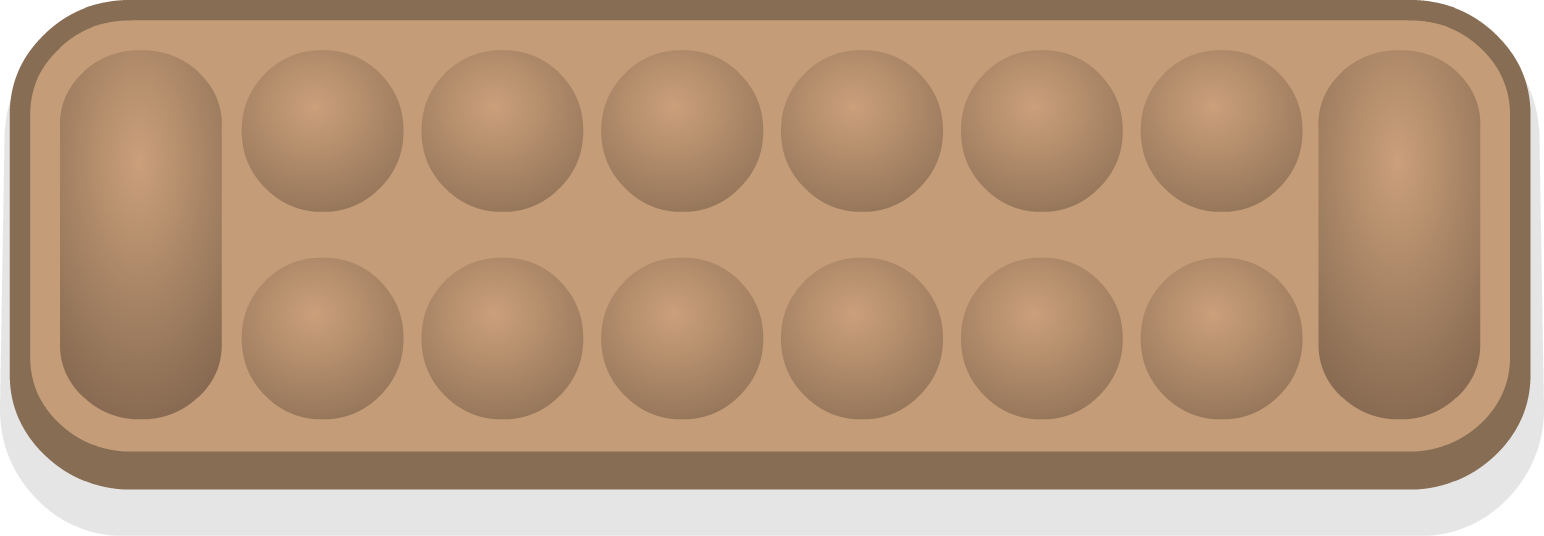
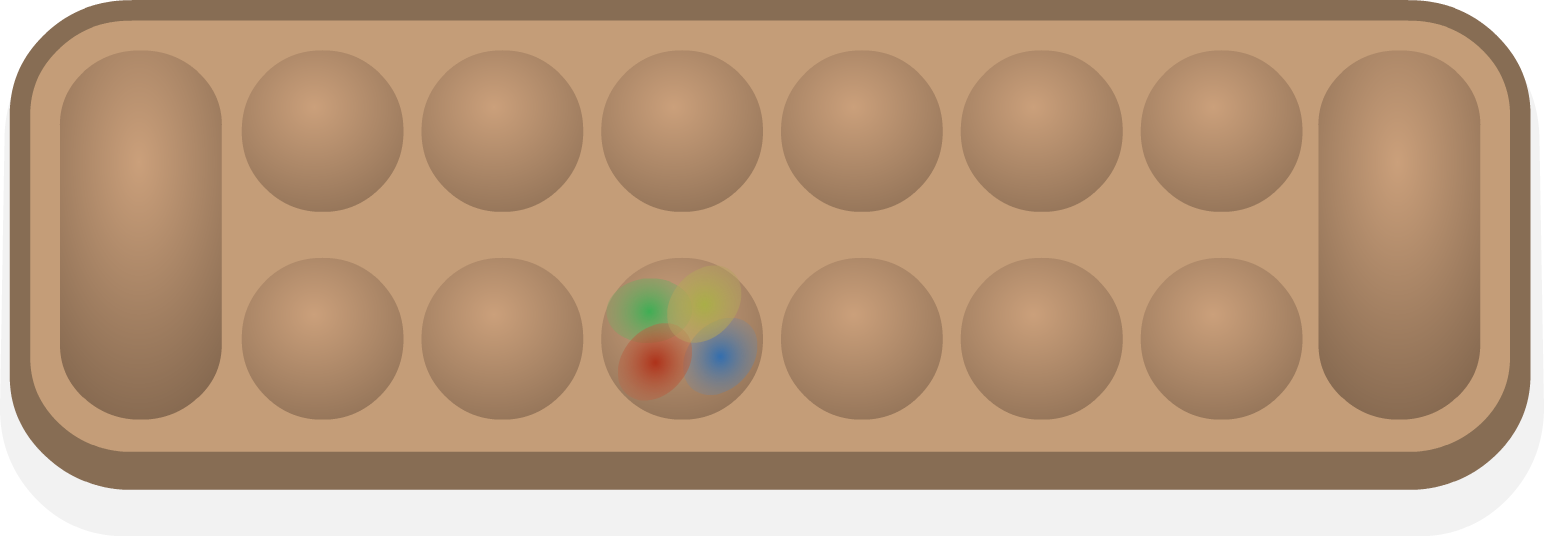
Added yellow highlight around slots when hovered over.

Changed region(s): [[0.3731, 0.5075, 0.4974, 0.7463]]

diff --git a/src/com/csmancala/core/RenderGraphics.java b/src/com/csmancala/core/RenderGraphics.java
@@ -9,6 +9,7 @@ import java.awt.Transparency;
 import java.awt.image.BufferedImage;
 
 import javax.swing.ImageIcon;
+import javax.swing.JButton;
 import javax.swing.JLabel;
 import javax.swing.JPanel;
 
@@ -56,51 +57,129 @@ public class RenderGraphics {
 	
 	private static void updateButtons() {
 		
+		gamePanel.player1Name.setLocation(startX, startY - 70);
+		
+		Slot[][] board = Start.getMancala().getBoard().getSlotArray();
+		
+		for (int y = 0; y < board[0].length; y++) {
+			for (int x = 0; x < board.length; x++) {
+				if (!(x == 0 && y == 1) && !(x == 7 && y == 0)) {
+					if (board[x][y].isHovered) setButtonProperties(gamePanel.boardButtons[x][y], true);
+					else setButtonProperties(gamePanel.boardButtons[x][y], false);
+				}
+			}
+		}
+		
+//		gamePanel.boardButtons[0][0].setLocation((int)(startX + 60 * multiplier), (int)(startY + 50 * multiplier));
+//		gamePanel.boardButtons[1][0].setLocation((int)(startX + 242 * multiplier), (int)(startY + 50 * multiplier));
+//		gamePanel.boardButtons[2][0].setLocation((int)(startX + 422 * multiplier), (int)(startY + 50 * multiplier));
+//		gamePanel.boardButtons[3][0].setLocation((int)(startX + 602 * multiplier), (int)(startY + 50 * multiplier));
+//		gamePanel.boardButtons[4][0].setLocation((int)(startX + 782 * multiplier), (int)(startY + 50 * multiplier));
+//		gamePanel.boardButtons[5][0].setLocation((int)(startX + 962 * multiplier), (int)(startY + 50 * multiplier));
+//		gamePanel.boardButtons[6][0].setLocation((int)(startX + 1142 * multiplier), (int)(startY + 50 * multiplier));
+//		
+//		gamePanel.boardButtons[7][1].setLocation((int)(startX + 1320 * multiplier), (int)(startY + 50 * multiplier));
+//		gamePanel.boardButtons[1][1].setLocation((int)(startX + 242 * multiplier), (int)(startY + 258 * multiplier));
+//		gamePanel.boardButtons[2][1].setLocation((int)(startX + 422 * multiplier), (int)(startY + 258 * multiplier));
+//		gamePanel.boardButtons[3][1].setLocation((int)(startX + 602 * multiplier), (int)(startY + 258 * multiplier));
+//		gamePanel.boardButtons[4][1].setLocation((int)(startX + 782 * multiplier), (int)(startY + 258 * multiplier));
+//		gamePanel.boardButtons[5][1].setLocation((int)(startX + 962 * multiplier), (int)(startY + 258 * multiplier));
+//		gamePanel.boardButtons[6][1].setLocation((int)(startX + 1142 * multiplier), (int)(startY + 258 * multiplier));
+		
+		
+//		gamePanel.boardButtons[0][0].setIcon(goalIcon);
+//		gamePanel.boardButtons[7][1].setIcon(goalIcon);
+//		
+//		for (int y = 0; y < 2; y++) {
+//			for (int x = 1; x < 7; x++) {
+//				gamePanel.boardButtons[x][y].setIcon(slotIcon);
+//			}
+//		}
+//		
+//		gamePanel.boardButtons[0][0].setSize(goalSize);
+//		gamePanel.boardButtons[7][1].setSize(goalSize);
+//		
+//		for (int y = 0; y < 2; y++) {
+//			for (int x = 1; x < 7; x++) {
+//				gamePanel.boardButtons[x][y].setSize(slotSize);
+//			}
+//		}
+	}
+	
+	private static void setButtonProperties(JButton b, boolean hovered) {
 		
 		BufferedImage goalImage = scaleImage(ResourceLoader.GOAL_BACKGROUND, (int) (ResourceLoader.GOAL_BACKGROUND.getWidth() * multiplier), (int) (ResourceLoader.GOAL_BACKGROUND.getHeight() * multiplier), RenderingHints.VALUE_INTERPOLATION_BILINEAR, true);
 		BufferedImage slotImage = scaleImage(ResourceLoader.SLOT_BACKGROUND, (int) (ResourceLoader.SLOT_BACKGROUND.getWidth() * multiplier), (int) (ResourceLoader.SLOT_BACKGROUND.getHeight() * multiplier), RenderingHints.VALUE_INTERPOLATION_BILINEAR, true);
 		
+		BufferedImage goalHoveredImage = scaleImage(ResourceLoader.GOAL_HIGHLIGHT_BACKGROUND, (int) (ResourceLoader.GOAL_HIGHLIGHT_BACKGROUND.getWidth() * multiplier), (int) (ResourceLoader.GOAL_HIGHLIGHT_BACKGROUND.getHeight() * multiplier), RenderingHints.VALUE_INTERPOLATION_BILINEAR, true);
+		BufferedImage slotHoveredImage = scaleImage(ResourceLoader.SLOT_HIGHLIGHT_BACKGROUND, (int) (ResourceLoader.SLOT_HIGHLIGHT_BACKGROUND.getWidth() * multiplier), (int) (ResourceLoader.SLOT_HIGHLIGHT_BACKGROUND.getHeight() * multiplier), RenderingHints.VALUE_INTERPOLATION_BILINEAR, true);
+
 		Dimension goalSize = new Dimension(goalImage.getWidth(), goalImage.getHeight());
 		Dimension slotSize = new Dimension(slotImage.getWidth(), slotImage.getHeight());
+		
+		Dimension goalHoveredSize = new Dimension(goalHoveredImage.getWidth(), goalHoveredImage.getHeight());
+		Dimension slotHoveredSize = new Dimension(slotHoveredImage.getWidth(), slotHoveredImage.getHeight());
 		
 		ImageIcon goalIcon = new ImageIcon(goalImage);
 		ImageIcon slotIcon = new ImageIcon(slotImage);
 		
-		gamePanel.player1Name.setLocation(startX, startY - 70);
+		ImageIcon goalHoveredIcon = new ImageIcon(goalHoveredImage);
+		ImageIcon slotHoveredIcon = new ImageIcon(slotHoveredImage);
 		
-		
-		gamePanel.boardButtons[0][0].setLocation((int)(startX + 60 * multiplier), (int)(startY + 50 * multiplier));
-		gamePanel.boardButtons[1][0].setLocation((int)(startX + 242 * multiplier), (int)(startY + 50* multiplier));
-		gamePanel.boardButtons[2][0].setLocation((int)(startX + 422 * multiplier), (int)(startY + 50 * multiplier));
-		gamePanel.boardButtons[3][0].setLocation((int)(startX + 602 * multiplier), (int)(startY + 50 * multiplier));
-		gamePanel.boardButtons[4][0].setLocation((int)(startX + 782 * multiplier), (int)(startY + 50 * multiplier));
-		gamePanel.boardButtons[5][0].setLocation((int)(startX + 962 * multiplier), (int)(startY + 50 * multiplier));
-		gamePanel.boardButtons[6][0].setLocation((int)(startX + 1142 * multiplier), (int)(startY + 50 * multiplier));
-		
-		gamePanel.boardButtons[7][1].setLocation((int)(startX + 1320 * multiplier), (int)(startY + 50 * multiplier));
-		gamePanel.boardButtons[1][1].setLocation((int)(startX + 242 * multiplier), (int)(startY + 258 * multiplier));
-		gamePanel.boardButtons[2][1].setLocation((int)(startX + 422 * multiplier), (int)(startY + 258 * multiplier));
-		gamePanel.boardButtons[3][1].setLocation((int)(startX + 602 * multiplier), (int)(startY + 258 * multiplier));
-		gamePanel.boardButtons[4][1].setLocation((int)(startX + 782 * multiplier), (int)(startY + 258 * multiplier));
-		gamePanel.boardButtons[5][1].setLocation((int)(startX + 962 * multiplier), (int)(startY + 258 * multiplier));
-		gamePanel.boardButtons[6][1].setLocation((int)(startX + 1142 * multiplier), (int)(startY + 258 * multiplier));
-		
-		
-		gamePanel.boardButtons[0][0].setIcon(goalIcon);
-		gamePanel.boardButtons[7][1].setIcon(goalIcon);
-		
-		for (int y = 0; y < 2; y++) {
-			for (int x = 1; x < 7; x++) {
-				gamePanel.boardButtons[x][y].setIcon(slotIcon);
+		if (b.equals(gamePanel.boardButtons[0][0])) {
+			if (hovered) {
+				gamePanel.boardButtons[0][0].setLocation((int)(startX + 60 - 7.5 * multiplier), (int)(startY + 50 - 7.5 * multiplier));
+				gamePanel.boardButtons[0][0].setIcon(goalHoveredIcon);
+				gamePanel.boardButtons[0][0].setSize(goalHoveredSize);
+			}
+			else {
+				gamePanel.boardButtons[0][0].setLocation((int)(startX + 60 * multiplier), (int)(startY + 50 * multiplier));
+				gamePanel.boardButtons[0][0].setIcon(goalIcon);
+				gamePanel.boardButtons[0][0].setSize(goalSize);
+			}
+		}
+		else if (b.equals(gamePanel.boardButtons[7][1])) {
+			if (hovered) {
+				gamePanel.boardButtons[7][1].setLocation((int)(startX + 1320 - 7.5 * multiplier), (int)(startY + 50 - 7.5 * multiplier));
+				gamePanel.boardButtons[7][1].setIcon(goalHoveredIcon);
+				gamePanel.boardButtons[7][1].setSize(goalHoveredSize);
+			}
+			else {
+				gamePanel.boardButtons[7][1].setLocation((int)(startX + 1320 * multiplier), (int)(startY + 50 * multiplier));
+				gamePanel.boardButtons[7][1].setIcon(goalIcon);
+				gamePanel.boardButtons[7][1].setSize(goalSize);
 			}
 		}
 		
-		gamePanel.boardButtons[0][0].setSize(goalSize);
-		gamePanel.boardButtons[7][1].setSize(goalSize);
-		
 		for (int y = 0; y < 2; y++) {
 			for (int x = 1; x < 7; x++) {
-				gamePanel.boardButtons[x][y].setSize(slotSize);
+				if (b.equals(gamePanel.boardButtons[x][y])) {
+					
+					if (y == 0) {
+						if (hovered) {
+							gamePanel.boardButtons[x][y].setLocation((int)(startX + (((x - 1) * 180) + 242 - 7.5) * multiplier), (int)(startY + ((50 - 7.5) * multiplier)));
+							gamePanel.boardButtons[x][y].setIcon(slotHoveredIcon);
+							gamePanel.boardButtons[x][y].setSize(slotHoveredSize);
+						}
+						else {
+							gamePanel.boardButtons[x][y].setLocation((int)(startX + (((x - 1) * 180) + 242) * multiplier), (int)(startY + (50 * multiplier)));
+							gamePanel.boardButtons[x][y].setIcon(slotIcon);
+							gamePanel.boardButtons[x][y].setSize(slotSize);
+						}
+					}
+					else {
+						if (hovered) {
+							gamePanel.boardButtons[x][y].setLocation((int)(startX + (((x - 1) * 180) + 242 - 7.5) * multiplier), (int)(startY + ((258 - 7.5) * multiplier)));
+							gamePanel.boardButtons[x][y].setIcon(slotHoveredIcon);
+							gamePanel.boardButtons[x][y].setSize(slotHoveredSize);
+						}
+						else {
+							gamePanel.boardButtons[x][y].setLocation((int)(startX + (((x - 1) * 180) + 242) * multiplier), (int)(startY + 258 * multiplier));
+							gamePanel.boardButtons[x][y].setIcon(slotIcon);
+							gamePanel.boardButtons[x][y].setSize(slotSize);
+						}
+					}
+				}
 			}
 		}
 	}
@@ -116,14 +195,6 @@ public class RenderGraphics {
 			nameLabel.setSize(new Dimension(fm.stringWidth(nameLabel.getText()), fm.getHeight()));
 		}
 	}
-	
-//	private static void paintMancalaBoardShadow(Graphics2D g2D) {
-//		
-//		startX = (int)(gamePanel.getWidth() - ResourceLoader.MANCALA_SHADOW.getWidth()) / 2;
-//		startY = (int)(gamePanel.getHeight() - ResourceLoader.MANCALA_BOARD.getHeight()) / 2;
-//
-//		g2D.drawImage(ResourceLoader.MANCALA_SHADOW, startX, startY, null);
-//	}
 	
 	public static void updateButtonText() {
 		

diff --git a/src/com/csmancala/component/GamePanel.java b/src/com/csmancala/component/GamePanel.java
@@ -12,11 +12,9 @@ import java.awt.event.ActionEvent;
 import java.awt.event.ActionListener;
 import java.awt.event.MouseAdapter;
 import java.awt.event.MouseEvent;
-
 import javax.swing.JButton;
 import javax.swing.JLabel;
 import javax.swing.JPanel;
-
 import com.csmancala.core.Board;
 import com.csmancala.core.RenderGraphics;
 import com.csmancala.run.Start;
@@ -29,23 +27,6 @@ public class GamePanel extends JPanel implements ActionListener {
 	public JLabel player2Name = new JLabel();
 	
 	public JButton[][] boardButtons;
-	
-//	public JButton player1Goal;
-//	public JButton player2Goal;
-//	
-//	public JButton topSlot1;
-//	public JButton topSlot2;
-//	public JButton topSlot3;
-//	public JButton topSlot4;
-//	public JButton topSlot5;
-//	public JButton topSlot6;
-//
-//	public JButton bottomSlot1;
-//	public JButton bottomSlot2;
-//	public JButton bottomSlot3;
-//	public JButton bottomSlot4;
-//	public JButton bottomSlot5;
-//	public JButton bottomSlot6;
 
 	public GamePanel() {
 		super();
@@ -84,24 +65,36 @@ public class GamePanel extends JPanel implements ActionListener {
 	@Override
 	public Component add(final Component c) {
 		if (c instanceof JButton && c != boardButtons[0][0] && c != boardButtons[7][1]) {
-			((JButton) c).addActionListener(this);
-
-			((JButton) c).addMouseListener(new MouseAdapter() {
+			final JButton b = (JButton)c;
+			b.addActionListener(this);
+			b.addMouseListener(new MouseAdapter() {
 
 				@Override
 				public void mouseEntered(MouseEvent e) {
-					c.setCursor(Cursor.getPredefinedCursor(Cursor.HAND_CURSOR));
+					b.setCursor(Cursor.getPredefinedCursor(Cursor.HAND_CURSOR));
 
-					//((JButton) c).setIcon(new ImageIcon(ResourceLoader.SLOT_HIGHLIGHT_BACKGROUND));
-					//c.setSize(ResourceLoader.SLOT_HIGHLIGHT_BACKGROUND.getWidth(), ResourceLoader.SLOT_HIGHLIGHT_BACKGROUND.getHeight());
+					for (int y = 0; y < Start.getMancala().getBoard().getSlotArray()[0].length; y++) {
+						for (int x = 0; x < Start.getMancala().getBoard().getSlotArray().length; x++) {
+							if (b.equals(boardButtons[x][y])) {
+								Start.getMancala().getBoard().getSlotArray()[x][y].setHovered(true);
+								break;
+							}
+						}
+					}
 				}
 
 				@Override
 				public void mouseExited(MouseEvent e) {
 					c.setCursor(Cursor.getPredefinedCursor(Cursor.DEFAULT_CURSOR));
 					
-					//((JButton) c).setIcon(new ImageIcon(ResourceLoader.SLOT_BACKGROUND));
-					//c.setSize(ResourceLoader.SLOT_BACKGROUND.getWidth(), ResourceLoader.SLOT_BACKGROUND.getHeight());
+					for (int y = 0; y < Start.getMancala().getBoard().getSlotArray()[0].length; y++) {
+						for (int x = 0; x < Start.getMancala().getBoard().getSlotArray().length; x++) {
+							if (b.equals(boardButtons[x][y])) {
+								Start.getMancala().getBoard().getSlotArray()[x][y].setHovered(false);
+								break;
+							}
+						}
+					}
 				}
 
 				@Override
@@ -140,41 +133,12 @@ public class GamePanel extends JPanel implements ActionListener {
 	@Override
 	public void actionPerformed(ActionEvent e) {
 
-		if (e.getSource() == boardButtons[1][0]) {
-			Start.getMancala().getBoard().setCurrentSlot(1, 0);
-		}
-		else if (e.getSource() == boardButtons[2][0]) {
-			Start.getMancala().getBoard().setCurrentSlot(2, 0);
-		}
-		else if (e.getSource() == boardButtons[3][0]) {
-			Start.getMancala().getBoard().setCurrentSlot(3, 0);
-		}
-		else if (e.getSource() == boardButtons[4][0]) {
-			Start.getMancala().getBoard().setCurrentSlot(4, 0);
-		}
-		else if (e.getSource() == boardButtons[5][0]) {
-			Start.getMancala().getBoard().setCurrentSlot(5, 0);
-		}
-		else if (e.getSource() == boardButtons[6][0]) {
-			Start.getMancala().getBoard().setCurrentSlot(6, 0);
-		}
-		else if (e.getSource() == boardButtons[1][1]) {
-			Start.getMancala().getBoard().setCurrentSlot(1, 1);
-		}
-		else if (e.getSource() == boardButtons[2][1]) {
-			Start.getMancala().getBoard().setCurrentSlot(2, 1);
-		}
-		else if (e.getSource() == boardButtons[3][1]) {
-			Start.getMancala().getBoard().setCurrentSlot(3, 1);
-		}
-		else if (e.getSource() == boardButtons[4][1]) {
-			Start.getMancala().getBoard().setCurrentSlot(4, 1);
-		}
-		else if (e.getSource() == boardButtons[5][1]) {
-			Start.getMancala().getBoard().setCurrentSlot(5, 1);
-		}
-		else if (e.getSource() == boardButtons[6][1]) {
-			Start.getMancala().getBoard().setCurrentSlot(6, 1);
+		for (int y = 0; y < boardButtons[0].length; y++) {
+			for (int x = 1; x < 7; x++) {
+				if (e.getSource() == boardButtons[x][y]) {
+					Start.getMancala().getBoard().setCurrentSlot(x, y);
+				}
+			}
 		}
 
 		Board logBoard = Start.getMancala().getBoard();

diff --git a/src/com/csmancala/file/ResourceLoader.java b/src/com/csmancala/file/ResourceLoader.java
@@ -33,7 +33,6 @@ public class ResourceLoader {
 	public static BufferedImage SLOT_HIGHLIGHT_BACKGROUND;
 
 	public static BufferedImage MANCALA_BOARD;
-	public static BufferedImage MANCALA_SHADOW;
 	
 	public static BufferedImage MANCALA_INSTRUCTIONS;
 	
@@ -58,7 +57,6 @@ public class ResourceLoader {
 			SLOT_BACKGROUND = FileSystem.loadImageFromJar(DirectoryMaster.boardFolder, "mancala_slot.png");
 			SLOT_HIGHLIGHT_BACKGROUND = FileSystem.loadImageFromJar(DirectoryMaster.boardFolder, "mancala_slot_highlight.png");
 			MANCALA_BOARD = FileSystem.loadImageFromJar(DirectoryMaster.boardFolder, "mancala_board.png");
-			MANCALA_SHADOW = FileSystem.loadImageFromJar(DirectoryMaster.boardFolder, "mancala_shadow.png");
 		}
 		else {
 			System.out.println("Resources can only be loaded before the game starts. Derp");

diff --git a/src/com/csmancala/core/Slot.java b/src/com/csmancala/core/Slot.java
@@ -11,10 +11,12 @@ public class Slot extends JButton {
 	
 	protected BufferedImage slotImage;
 	protected List<Stone> stones;
+	protected boolean isHovered;
 	
 	public Slot() {
 		super.setEnabled(false);
 		stones = new ArrayList<>();
+		isHovered = false;
 	}
 	
 	public Slot(Stone... defaultStones) {
@@ -54,6 +56,14 @@ public class Slot extends JButton {
 			s.add(stones.remove(i));
 		}
 		return s;
+	}
+	
+	public boolean isHovered() {
+		return isHovered;
+	}
+	
+	public void setHovered(boolean b) {
+		isHovered = b;
 	}
 	
 	@Override
